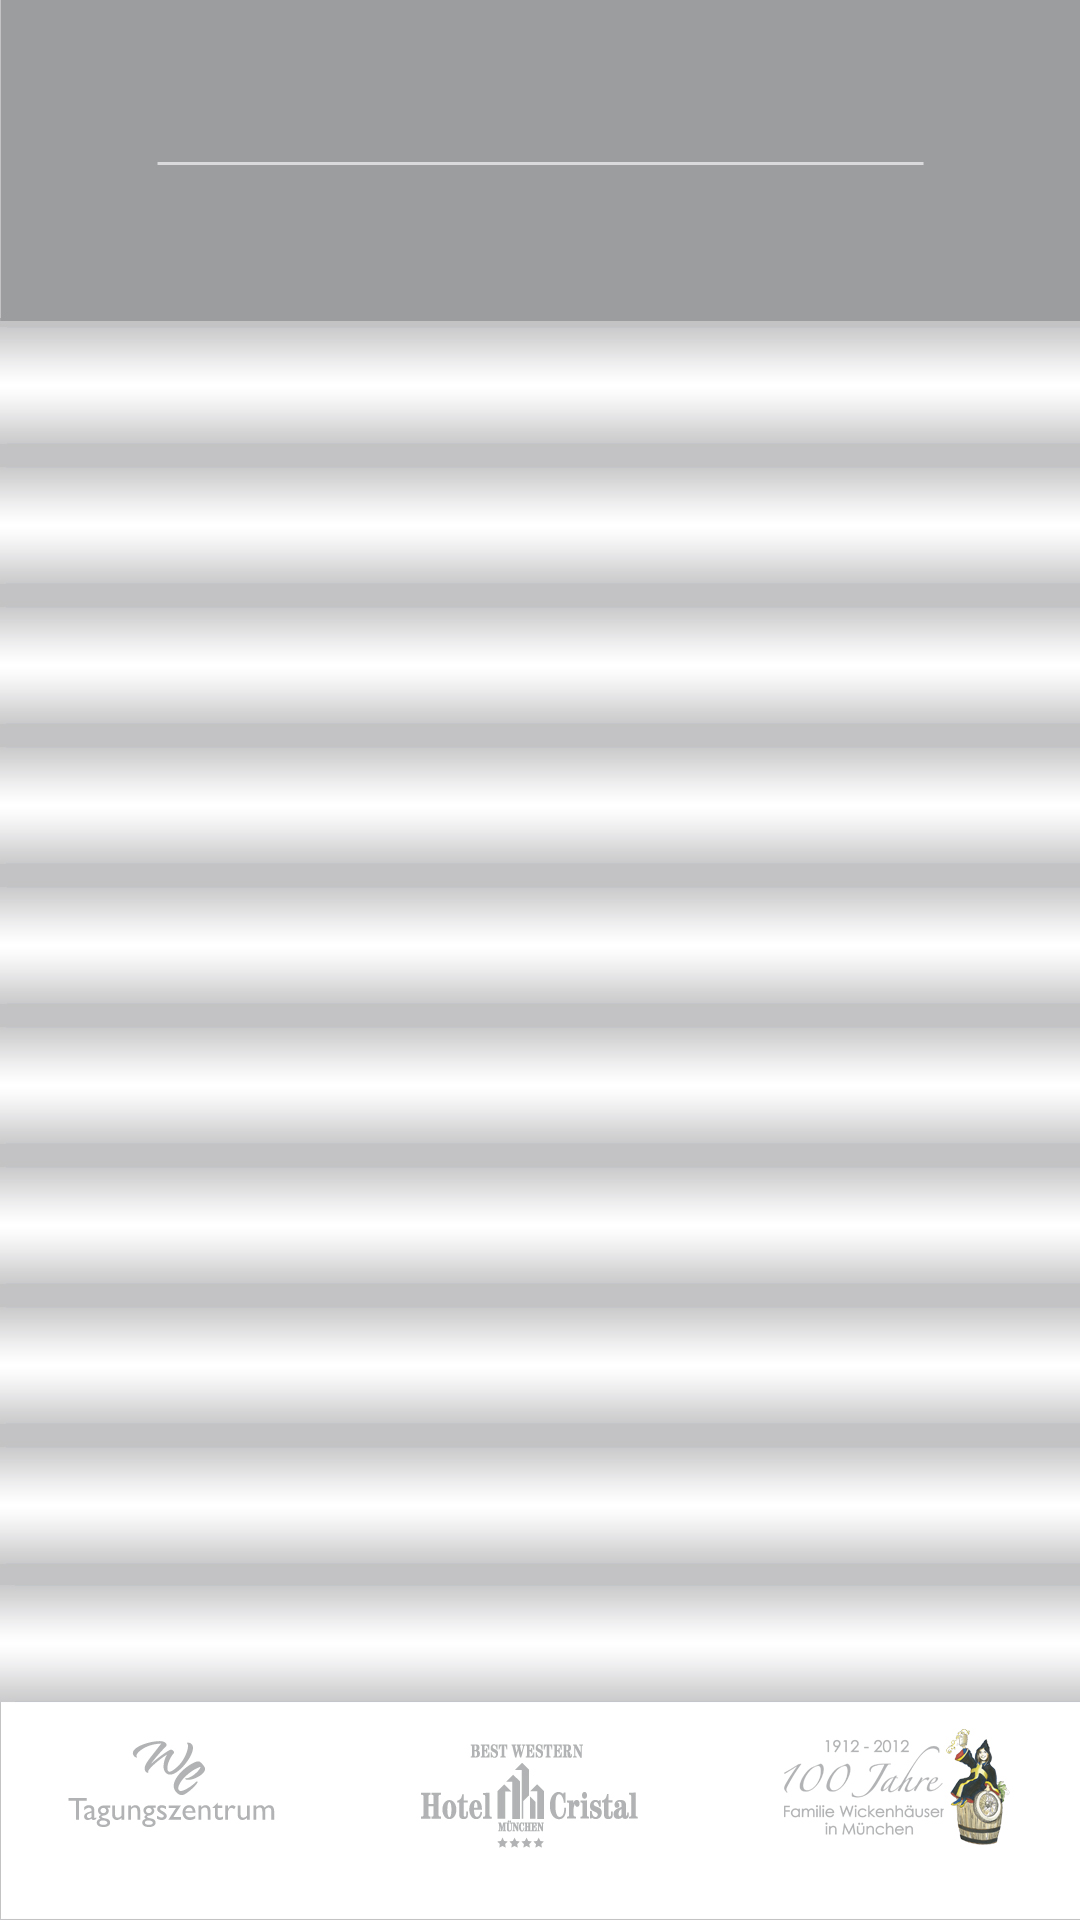
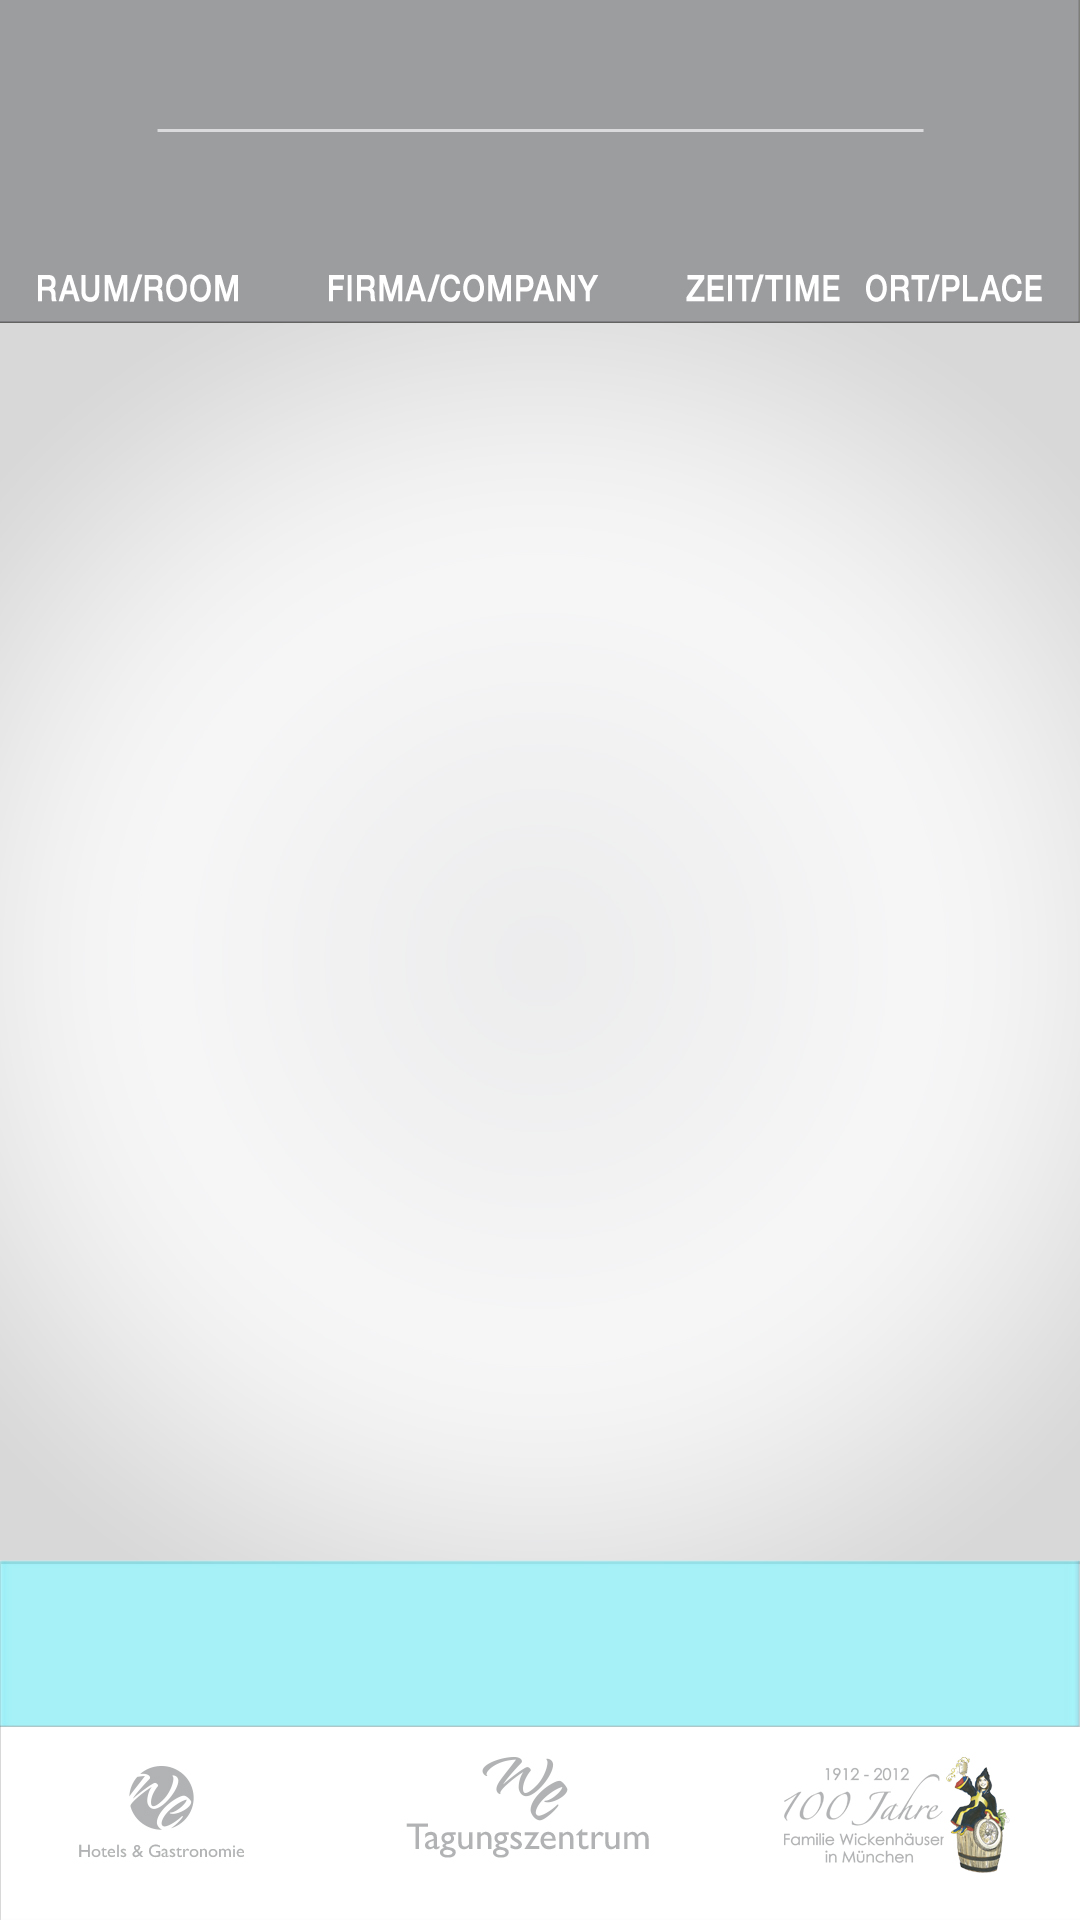
Screen Cristal Lobby Update

diff --git a/src/main/webapp/scripts/rooms.js b/src/main/webapp/scripts/rooms.js
@@ -18,26 +18,28 @@ jQuery(document).ready(function () {
 	            	if(data.calendars == null || data.calendars.length === 0){
 	            		//alert($.cookie('switchToggle'))
 	            		if($.cookie('switchAdToggle') == 0){
-	            			$('body').css("color", "#043A80").css("background","url('images/cristal_lobby_intermediate.jpg')").css("height", "1920px").css("width", "1080px");
+	            			$('body').css("color", "#707173").css("background","url('images/cristal_lobby_intermediate.jpg')").css("height", "1920px").css("width", "1080px");
 	            			$.cookie('switchAdToggle', 1);
 	            		}else if($.cookie('switchAdToggle') == 1){
-	            			$('body').css("color", "#043A80").css("background","url('images/Monitor-Lobby_Werbung1912-100Jahre-Logo.jpg')").css("height", "1920px").css("width", "1080px");
+	            			$('body').css("color", "#707173").css("background","url('images/Monitor-Lobby_Werbung1912-100Jahre-Logo.jpg')").css("height", "1920px").css("width", "1080px");
 	            			$.cookie('switchAdToggle', 2);
 	            		}
 	            		else{
-	            			$('body').css("color", "#043A80").css("background","url('images/Monitor-Lobby_Eisstockbahn.jpg')").css("height", "1920px").css("width", "1080px");
+	            			$('body').css("color", "#707173").css("background","url('images/Monitor-Lobby_Eisstockbahn.jpg')").css("height", "1920px").css("width", "1080px");
 	            			$.cookie('switchAdToggle', 0);
 	            		}
 	            	}else{
 	            		//if($.cookie('switchDirectionsToggle') == 0){
-		            		$('#header').css("color", "#fff").css("height","315px").css("width", "1080px");
+		            		$('#header').css("color", "#fff").css("height","322px").css("width", "1080px");
 		            		$('#header').append(
-		            				$('<div>').css("font-size", "45px").css("padding-top", "100px").css("text-align", "center").append(data.today)
+		            				$('<div>').css("font-size", "45px").css("padding-top", "60px").css("text-align", "center").append(data.today)
 		            		)
 		            		$('#header').append(
 		            				$('<div>').css("font-size", "40px").css("padding-top", "30px").css("text-align", "center").append(data.today_en)
 		            		)	            				
-		            		$('body').css("color", "#043A80").css("background","url('images/templates/rooms/Cristal-Monitor.jpg')").css("height", "1920px").css("width", "1080px")
+		            		$('body').css("color", "#707173")
+		            		//.css("text-shadow", "1px 1px #333333")
+		            		.css("background","url('images/templates/rooms/Cristal-Monitor.jpg')").css("height", "1920px").css("width", "1080px")
 		            	
 		            	
 		            	$.each(data.calendars, function(i, element){
@@ -46,32 +48,35 @@ jQuery(document).ready(function () {
 		            		if(element.roomLocation === "DOLOMIT") text=""
 		            		$('#mainTable').css("width","1080px").css("font-size","30px").css("table-layout", "fixed")
 							.append(
-								$('<tr>').css("height", "140px")
+								$('<tr>').css("height", "136px")
 									.append(
-										$('<td>').css("text-align","center").css("background", "none repeat scroll 0 0 transparent").append(
+										$('<td>').css("text-align","center").css("background", "none repeat scroll 0 0 transparent").css("width", "210px").append(
 												element.roomName
 										)	
 									)
 									.append(
-										$('<td>').css("text-align","center").css("background", "none repeat scroll 0 0 transparent")
+										$('<td>').css("text-align","center").css("background", "none repeat scroll 0 0 transparent").css("width", "300px")
 										.append(
-											$('<div>').css("max-height", "110px").css("padding-top", "10px").css("max-width", "360px").css("text-overflow", "ellipsis").css("overflow", "hidden")
+											$('<div>').css("max-height", "110px").css("padding-top", "10px").css("text-overflow", "ellipsis").css("overflow", "hidden")
 												.append(
 														element.company
 												)
 											)
 									)								
 									.append(
-										$('<td>').css("text-align","center").css("background", "none repeat scroll 0 0 transparent").css("min-width", "250px").append(
-												element.dateString
-										).append("<br>").append(
-												element.startString
-										).append(" - ").append(
-												element.endString
+										$('<td>').css("text-align","center").css("background", "none repeat scroll 0 0 transparent").css("width", "120px")
+										//.append(element.dateString)
+										//.append("<br>")
+										.append($('<div>')
+											.append(
+													element.startString
+											).append(" - ").append(
+													element.endString
+											)
 										)
 									)
 									.append(
-										$('<td>').css("width", "270px").attr("class", getRoomLocationCssName(element.roomLocation)).append(
+										$('<td>').css("width", "170px").attr("class", getRoomLocationCssName(element.roomLocation)).append(
 												text
 										)	
 									)								
@@ -81,7 +86,7 @@ jQuery(document).ready(function () {
 		            		$('#mainTable').append(
 								$('<tr>').css("border-bottom", "20px solid #transparent")
 									.append(
-										$('<td>').css("background", "none repeat scroll 0 0 transparent").css("height", "140px").css("text-align","center").css("width", "230px").append(
+										$('<td>').css("background", "none repeat scroll 0 0 transparent").css("height", "136px").css("text-align","center").css("width", "230px").append(
 												element.name
 										)	
 									)
@@ -92,6 +97,7 @@ jQuery(document).ready(function () {
 							);
 		            	});
 		            	$.cookie('switchDirectionsToggle', 1);
+		            	weather();
             		//}else{
             		//	$('body').css("color", "#043A80").css("background","url('images/Monitor-Lobby_Wegbeschreibung-Tagungsraeume.jpg')").css("height", "1920px").css("width", "1080px");
             		//	$.cookie('switchDirectionsToggle', 0);
@@ -107,6 +113,58 @@ jQuery(document).ready(function () {
 		if(str == "UG") return "ug";
 		return "";
 	}
+	
+	
+	function weather(){
+	    $.getJSON(
+	            'openweather?days=3',
+	            function( data )
+	            {
+	
+	        		$('body').append(
+		        				$('<table>').attr("id", "weatherTable").css("position", "absolute").css("top", "1560px").css("width", "1020px").css("font", "bold 22px Helvetica,sans-serif")
+	        		);
+	        		$('#weatherTable').append(
+							$('<tr>').attr("id", "weatherTableLine").css("height", "136px")
+					);
+	        		$.each(data.days, function(i, element){
+						/*$.table
+						.append(
+								$('<tr>').css("background", "none repeat scroll 0 0 transparent")
+								.append(
+										$('<td>').css("background", "none repeat scroll 0 0 transparent").css('text-align','left').attr("colspan","6").append(element.name+ " "+element.dateString)
+								)
+		            	);
+		            	*/
+
+	        			$('#weatherTableLine').append(
+									$('<td>').css("height", "136px").css("width", "360px").css("padding-left", "60px").css("background", "none repeat scroll 0 0 transparent")
+										.append($('<div>').css("padding-bottom", "10px").append(element.name+ " "+element.dateString))
+										.append($('<div>').css("float", "left").append($('<img>').attr('src', "images/Wetter-Icons_181212/"+element.midayImg+".jpg")))
+										.append($('<div>').css("padding-left", "120px").append(element.miday+" °C / ").append(element.midayF+" °F "))
+										.append($('<div>').css("padding-left", "120px").append(element.midayPc+"%"))
+									/*	.append(
+												$('<td>').css("background", "none repeat scroll 0 0 transparent").append($('<img>').attr("width","90").attr("height","90").attr('src', "images/icons/"+element.midayImg+".jpg"))
+										)						
+										.append(
+												$('<td>').css("background", "none repeat scroll 0 0 transparent").append(element.miday+" °C / ").append(element.midayF+" °F ")
+										)
+										.append(
+												$('<td>').css("background", "none repeat scroll 0 0 transparent").append(element.midayPc+"%")
+										)
+										.append(
+												$('<td>').css("background", "none repeat scroll 0 0 transparent").append($('<img>').attr("width","90").attr("height","90").attr('src', "images/icons/Windpfeil-"+element.midayWd_txt+".png"))
+										)
+										.append(
+												$('<td>').css("background", "none repeat scroll 0 0 transparent").append(element.midayWs).append(' km/h')
+										)
+										
+										*/
+			            	);
+	        		});
+					
+	            })
+		}	
 	
 	rooms();	
 	

diff --git a/src/main/webapp/styles/default-screen.css b/src/main/webapp/styles/default-screen.css
@@ -8,31 +8,24 @@
 	font-weight:bold;
 	width:100%;
 }
-.og7{
-	 background-image: url(7og.jpg);
+.og7, .og1{
+	 background-image: url(og.png);
 	 background-repeat:no-repeat;
 	 background-color:transparent;
-	 background-position:150px 8px;
-	 padding-left:60px;
-}
-.og1{
-	 background-image: url(7og.jpg);
-	 background-repeat:no-repeat;
-	 background-color:transparent;
-	 background-position:150px 8px;
-	 padding-left:60px;	
+	 background-position:120px 8px;
+	 padding-left:30px;
 }
 .dolomit{
 	 background-image: url(dolomit.png);
 	 background-repeat:no-repeat;
 	 background-color:transparent;
-	 background-position:100px 12px;
+	 background-position:30px 12px;
 	 padding-left:0px;	
 }
 .ug{
-	 background-image: url(ug.jpg);
+	 background-image: url(ug.png);
 	 background-repeat:no-repeat;
 	 background-color:transparent;
-	 background-position:150px 14px;
-	 padding-left:60px;
+	 background-position:120px 34px;
+	 padding-left:30px;
 }

diff --git a/src/main/java/com/evodat/webapp/action/RoomAction.java b/src/main/java/com/evodat/webapp/action/RoomAction.java
@@ -24,9 +24,9 @@ public class RoomAction extends BaseAction implements ServletRequestAware, Prepa
 	private String roomName;
 	
 	public void prepare() throws Exception {
-		remoteAddr = getRequest().getRemoteAddr();
-		log.debug("Request from: " + getRequest().getRemoteAddr() + " Method: "
-				+ getRequest().getMethod());
+//		remoteAddr = getRequest().getRemoteAddr();
+//		log.debug("Request from: " + getRequest().getRemoteAddr() + " Method: "
+//				+ getRequest().getMethod());
 
 	}
 	@Override
